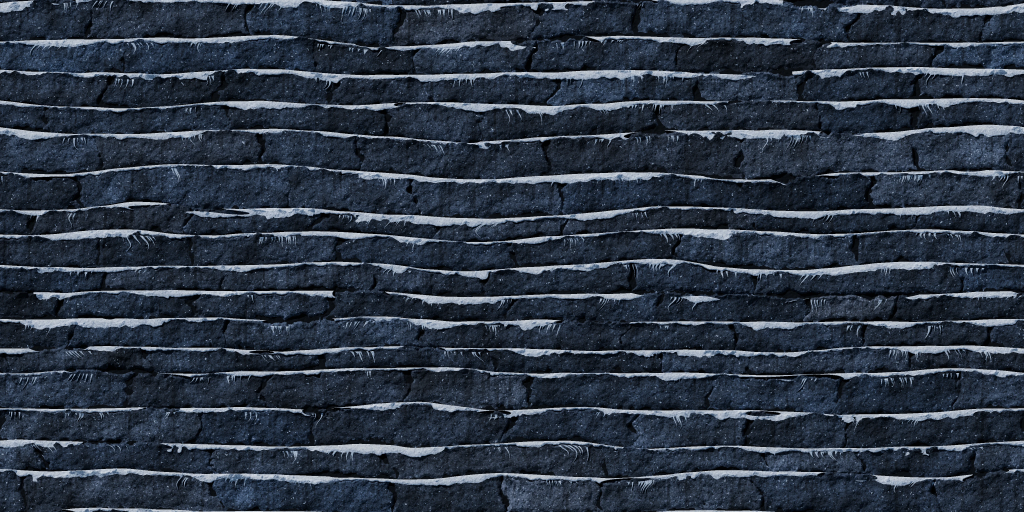
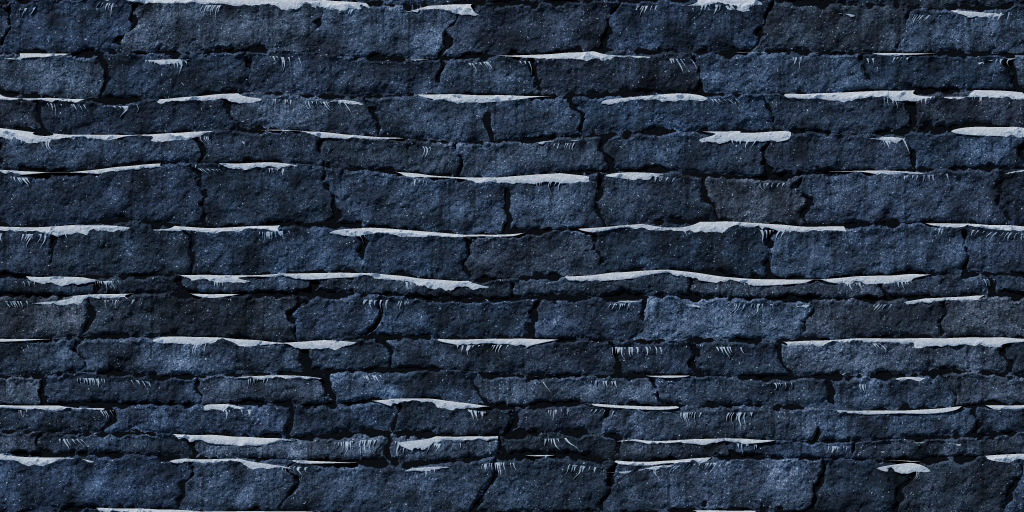
Версия 2026.10.15-51: правки критика r26 — пласты арктики без «обоев», кристаллы на сводах Alien, вулкан светлее

diff --git a/js/terrain_visual.js b/js/terrain_visual.js
@@ -1521,10 +1521,17 @@ function drawSurfaceDetails(T, theme, seed, waterY, tops, ceils, mat) {
       const len = 4 + rng() * 12; c.fillStyle = '#1e1817'; c.beginPath(); c.moveTo(x - 2.8, y); c.lineTo(x + 2.8, y); c.quadraticCurveTo(x + 0.8, y + len * 0.6, x, y + len); c.quadraticCurveTo(x - 0.8, y + len * 0.6, x - 2.8, y); c.fill();
       if (gc && rng() < 0.12) { gc.fillStyle = 'rgba(255,110,20,0.7)'; gc.beginPath(); gc.arc(x, y + len - 1, 1.6, 0, TAU); gc.fill(); c.fillStyle = '#ff9a3a'; c.beginPath(); c.arc(x, y + len - 1, 0.7, 0, TAU); c.fill(); }   /* угольки редкие и мелкие (r23: «гирлянда») */
     } else if (kind === 'crystals' && rng() < 0.035) {
-      const len = 5 + rng() * 10; const col = rng() < 0.5 ? '#5ff4ff' : '#ff6ef6';
-      c.fillStyle = col; c.beginPath(); c.moveTo(x - 2, y); c.lineTo(x + 2, y); c.lineTo(x + 1.5, y + len * 0.7); c.lineTo(x, y + len); c.lineTo(x - 1.5, y + len * 0.7); c.closePath(); c.fill();
-      c.fillStyle = 'rgba(255,255,255,0.6)'; c.fillRect(x - 1, y, 0.8, len * 0.6);
-      if (gc) { gc.fillStyle = col; gc.globalAlpha = 0.6; gc.beginPath(); gc.arc(x, y + len * 0.5, 5, 0, TAU); gc.fill(); gc.globalAlpha = 1; }
+      const len = 5 + rng() * 10, cyan = rng() < 0.5, col = cyan ? '#5ff4ff' : '#ff6ef6';
+      const CN = cyan ? ['crystal_c1', 'crystal_c2'] : ['crystal_m1', 'crystal_m2'], cn = CN[(x * 7 + y) & 1], CR = TexLib.data[cn];
+      if (CR) {   // кристаллы из Blender остриём вниз (как в эталоне свисают со свода) — чёткие при приближении
+        const D = (len + 6) * 1.9; if (surface) { surface.sprite(CR.canvas, cn); anchor(x, y - 1); }
+        cs.save(); cs.translate(x, y + 2); cs.scale((x & 2) ? -1 : 1, -1); cs.drawImage(CR.canvas, -D / 2, -D, D, D); cs.restore();
+        if (surface) anchor(null);
+      } else {
+        c.fillStyle = col; c.beginPath(); c.moveTo(x - 2, y); c.lineTo(x + 2, y); c.lineTo(x + 1.5, y + len * 0.7); c.lineTo(x, y + len); c.lineTo(x - 1.5, y + len * 0.7); c.closePath(); c.fill();
+        c.fillStyle = 'rgba(255,255,255,0.6)'; c.fillRect(x - 1, y, 0.8, len * 0.6);
+      }
+      if (gc) { gc.fillStyle = col; gc.globalAlpha = 0.32; gc.beginPath(); gc.arc(x, y + len * 0.5, 4, 0, TAU); gc.fill(); gc.globalAlpha = 1; }
     }
   }
   // --- Декоративная отделка пещер: кромка ±4 px, сколы углов, гравий и редкая трава/мох ---

diff --git a/js/themes.js b/js/themes.js
@@ -89,7 +89,7 @@ const THEMES = {
       strata: ['#4b3c39', '#5b4944', '#3e3130', '#655149', '#4e3e3a'], band: 26, bandSharp: 0.3,
       rock: ['#6a5244', '#7e6250', '#5a4438', '#8a6c56', '#725a4a'], rockDirt: true, rockBand: 48, backK: 1.5,
       pebbles: ['#6a5a54', '#7a6862', '#5a4a44'], smoothStones: true,
-      outline: '#0d0606', veins: { color: '#ff7a20', w: 0.012, glow: true, hot: true, mask: 0.64, halo: 3 /* v50: тонкие редкие трещины, как в эталоне (были кляксы) */ }, ceiling: 'stalactites', capMats: [1, 9], tex: { rock: 'rock_volcano', cave: 'cave_volcano', cap: 'cap_ash', gain: [2.13, 3.26, 3.73], glowTex: [255, 110, 30], glowMin: 190 },
+      outline: '#0d0606', veins: { color: '#ff7a20', w: 0.012, glow: true, hot: true, mask: 0.64, halo: 3 /* v50: тонкие редкие трещины, как в эталоне (были кляксы) */ }, ceiling: 'stalactites', capMats: [1, 9], tex: { rock: 'rock_volcano', cave: 'cave_volcano', cap: 'cap_ash', gain: [2.45, 3.75, 4.29] /* r26: склон светлее ~15 % */, glowTex: [255, 110, 30], glowMin: 190 },
     },
     scatter: ['obsidian', 'lavarock', 'bones', 'obsidian', 'lavarock'],
     weather: 'embers', birds: false, ambient: '#a47a6c', ambientSound: 'lava', glow: true,

diff --git a/js/art.js b/js/art.js
@@ -262,6 +262,7 @@ const TexLib = {
     for (const d of map.decor || []) for (const n of trees[d[0]] || []) add(n);
     for (const k of theme.scatter || []) for (const n of trees[k] || []) add(n);   // россыпь по поверхности (камни, кристаллы, кости)
     if (theme.scatterRock) for (const n of ['drygrass1', 'drygrass2', 'drygrass3', 'drygrass4']) add(n);
+    if (theme.ground && theme.ground.ceiling === 'crystals') for (const n of ['crystal_c1', 'crystal_c2', 'crystal_m1', 'crystal_m2']) add(n);   // кристаллы на сводах
     if (theme.ground && theme.ground.ceiling === 'roots') for (const n of ['roots1', 'roots2', 'roots3']) add(n);   // корни в пещерах (terrain_visual.js)
     if (theme.liquid && theme.liquid.kind === 'lava') add('lava_surface');   // корка лавы (render.js, drawLiquid)
     if (theme.weather === 'leaves') for (const n of ['leaf1', 'leaf2', 'leaf3', 'leaf4']) add(n);   // падающие листья (particles.js, погода)

diff --git a/index.html b/index.html
@@ -114,7 +114,7 @@
         </div>
       </div>
     </div>
-    <footer class="menu-footer"><span id="game-version">ВЕРСИЯ 2026.10.15-50</span><span>ПЛАНИРУЙ ХОД. МЕНЯЙ ЛАНДШАФТ.</span><span class="footer-status"><i></i> ГОТОВ К БОЮ</span></footer>
+    <footer class="menu-footer"><span id="game-version">ВЕРСИЯ 2026.10.15-51</span><span>ПЛАНИРУЙ ХОД. МЕНЯЙ ЛАНДШАФТ.</span><span class="footer-status"><i></i> ГОТОВ К БОЮ</span></footer>
   </section>
 
   <!-- Онлайн -->

diff --git a/dev/blender/make_masonry.py b/dev/blender/make_masonry.py
@@ -53,11 +53,13 @@ STYLES = {
     # (светлый верх, тень под уступом — от настоящего рельефа), крупные пятна тона ±10 L
     # r24 → v44: пласты как в эталоне (≈30 ед.: 24–42), трещины чаще (80–200), карниз сильнее (светлый верх, тень под
     # уступом), снег на кромке почти сплошной и толще, сосулек и инея больше
-    'strata': dict(name='rock_arctic', seed=61, T=1024, TY=512, hr=(24, 42), wr=(80, 200), joint=1.8, bev=3.0, recess=2.6, tilt=0.8,
-                   slant=(5, 20), ledge=3.4, mottk=0.16, frostT=2.35,
-                   stone=[(56, 61, 72), (50, 55, 66), (62, 67, 78), (45, 50, 60), (54, 59, 70)],
+    # r26 → v51: «обои» — сплошная белая нитка снега на каждом ряду; теперь снег пятнами (~⅓ уступов), но толще, ряды
+    # разной высоты (22–56), швы между глыбами глубже, камень светлее ~15 % (как в эталоне — голубоватые грани)
+    'strata': dict(name='rock_arctic', seed=61, T=1024, TY=512, hr=(22, 56), wr=(70, 230), joint=2.6, bev=3.2, recess=2.8, tilt=0.8,
+                   slant=(5, 20), ledge=3.4, mottk=0.2, frostT=2.35,
+                   stone=[(64, 70, 83), (58, 63, 76), (71, 77, 90), (52, 58, 69), (62, 68, 81)],
                    mortar=(13, 15, 20), lichen=0.0, moss=0.0, wob=1.8, rough=1.6, warp=(3.2, 3.0),
-                   snow=dict(th=(2.2, 7.5), col=(232, 238, 250), gaps=-1.3, icicles=1.7),
+                   snow=dict(th=(3.5, 9.5), col=(232, 238, 250), gaps=0.35, icicles=1.7),
                    light=dict(col=(0.82, 0.88, 1.0), elev=32, energy=4.2)),
     # пиратский маяк: побелённый камень, мелкие блоки, светлый раствор
     'light': dict(name='stone_light', seed=51, T=512, hr=(10, 13), wr=(17, 32), joint=1.8, bev=1.5, recess=1.2,

diff --git a/CLAUDE.md b/CLAUDE.md
@@ -7,7 +7,7 @@ D:\Територивар1 и пользовательский Territory-War100 
 Не выполнять старые указания reset/clean/push/автоматического обновления (локальные коммиты можно).
 Запускать «Играть.cmd» или «Играть онлайн.cmd» из D:\Територивар.
 Полная переписка: dev/imported-chat/claude-code. Текущие цели: dev/NEXT_STEPS.md.
-Актуальная версия 2026.10.15-50, передача: dev/HANDOFF-2026-10-04.md и разделы «Версия 33–45» в dev/NEXT_STEPS.md.
+Актуальная версия 2026.10.15-51, передача: dev/HANDOFF-2026-10-04.md и разделы «Версия 33–45» в dev/NEXT_STEPS.md.
 Версия 45 (14.10): кадр наведения соперника — Camera.shotFrame идёт за дальней точкой (точка у края кадра с отступом); удары, попадания и снаряды центруются и у края карты (clampTo, reach). Ядерка — game.nuke (rd 430, pierce 0.5, урон 280). Звуки Sonniss GDC 2026 скачаны в D:\Sonniss-GDC2026\zips (лицензия без авторства; не выкладывать сами файлы). Версия 46: звук Sonniss (amb_*, boom5–9, nukeboom, ice0–1; dev/tools/sonniss_make.py; AMB_REC в audio.js), мотор ракеты ROCKET_MOTOR (entities.js, и в simulateShot), обломки PART_REST (particles.js), цветы flower1–4 и листья leaf1–4 (make_decor.py; цветы — в слое растений terrain_visual.js). Версия 48: оружие и взрывы из прошлых наборов Sonniss (выборочно по HTTP Range — scratchpad zip_fetch.py, копия D:\Sonniss-GDC2026\zip_fetch.py; записи в D:\Sonniss-GDC2026\guns; нарезка dev/tools/guns_make.py). Версия 49: makeup-усиление в audio.js init (2.5), лазер — ошибка по ветру (entities.js orbital), pickFrame — кадр по середине «самолёт…земля» (zFit), clampTo — свободный обзор до края (edge/scopeFocus/binoc), прицел соперника прижат к краю экрана со стрелкой. Лимиты: критик — лёгкий (8 уменьшенных снимков), тяжёлое — фоновыми процессами.
 Графика (просьба 09.10): всё векторное и лоскутное — в фотореалистичный Blender (кладка dev/blender/make_masonry.py, ели snow_spruce в make_textures.py, плющ make_ivy.py, декор make_decor.py); доски корабля dev/tools/make_hull_planks.py, чистка снега в текстуре dev/tools/despeckle_snow.py; критик r22 — dev/reviews/r22.md.
 Чёткость (просьба 10.10): текстуры чёткие при ЛЮБОМ увеличении — у каждого материала родная ×4 в assets/tex/native (Blender: dev/blender/hf_render.py блоками, make_masonry.py, make_metal.py; остальное — dev/native_batch.py через dev/tools/native_queue.py), проверять снимками на 1,3×/2×/max и мерой R = ВЧ(1:1)/ВЧ(½) родной (≥ 0.85; у рендеров Blender — узкий фильтр пикселя, без шумоподавления, см. dev/reviews/r24.md). Длинные рендеры возобновляемые (HF_RESUME=1, native_queue.py --clear-stale): у пользователя бывают отключения света.

diff --git a/dev/reviews/r26.md b/dev/reviews/r26.md
@@ -1,0 +1,20 @@
+# Критик r26 (15.10.2026, лёгкий: 8 снимков 960×600 + 8 эталонов, модель Sonnet)
+
+| Карта | Оценка | Главная проблема |
+|---|---|---|
+| valley | 5.5 | плоский плиточный грунт «земля с камешками», башня резко обрезана; нет тёплого контрового света, нависающей травы, мха на мосту |
+| canyon | 6.5 | порода однотонная оранжево-бурая, тёмная обводка 1 px у пещер; в эталоне пласты разного цвета и полки |
+| arctic | 5 | горизонтальные полосы с шагом ~25 px с белой ниткой — «обои»; в эталоне крупные блоки, толстые снежные шапки, лёд |
+| volcano | 6 | свечение лавы — пятна-штампы, а не трещины; весь склон плоский и тёмный |
+| alien | 6 | обрыв — тёмная пятнистая заливка с кристаллами, нет силуэта, нависаний, мха |
+| pirate | 6.5 | доски хорошие, но трюм — ровная сетка без света; стык с землёй — резкая горизонталь |
+| castles | 6.5 | стена — прямоугольник с резким вертикальным срезом справа; камни в грунте одинаковые и редкие |
+| city | 7 | фасады близки к эталону; плоская кровля, неон «наклеен» |
+
+Правки (3 худших):
+- arctic: высота пластов 60–120 px вместо ~25, вертикальные швы и сдвиги, блоки 150–300 px; толстые неровные шапки снега
+  6–12 px на 30–40 % уступов с тенью снизу; порода светлее ~15 %, сине-серые вариации, лёд под нависаниями.
+- valley: валуны 40–80 px со светлым верхом и тёмной щелью; кромка травы 8–14 px с нависанием; мох/плющ на башне и мосту;
+  тёплый контровой свет +20 % на верх/правые грани; рваный край вместо прямого среза башни.
+- volcano: свечение — тонкие линии 1–2 px вдоль трещин, пятен на 60 % меньше; склон светлее ~25 %, плиты с светлой
+  верхней кромкой и тенью; тлеющая кромка вдоль верхнего склона.

diff --git a/README.md b/README.md
@@ -12,6 +12,10 @@
 
 Лаунчеры сразу открывают приложение во весь экран; F11 — выход/возврат. В обычной браузерной ссылке полный экран включается с первого действия пользователя.
 
+## Обновление 51
+
+По отзыву критика r26 (dev/reviews/r26.md): арктика — крупные глыбы с глубокими швами, ряды разной высоты, снег пятнами на части уступов (раньше сплошная белая нитка на каждом ряду, «обои»), порода светлее; Alien — со сводов свисают объёмные кристаллы из Blender вместо нарисованных треугольников; вулкан — склон светлее, ближе к эталону.
+
 ## Обновление 50
 
 Вулкан: озеро лавы — настоящая корка из тёмных плит со светящимися трещинами расплава, медленно дрейфует (раньше — жёлтая заливка с эллипсами); раскалённые прожилки в породе тоньше и реже, без оранжевых клякс. Долина и замки: убраны светлые нарисованные штрихи поверх травы.

diff --git a/dev/CORE_GOALS.md b/dev/CORE_GOALS.md
@@ -9,6 +9,8 @@ dev/MASTER_PLAN.md (все просьбы пользователя), а сохр
   dev/reference/*.png. Критик — субагент, но лёгкий: 8 уменьшенных снимков + эталоны за один заход (лимиты пользователя).
 - Всё векторное и лоскутное → **фотореалистичные ассеты из Blender** (dev/blender/make_decor.py и др.).
   Сделано 15.10 (v50): дуги в траве убраны, озеро лавы — текстура корки (dev/tools/make_lava.py), прожилки тоньше.
+  v51 (критик r26, dev/reviews/r26.md: valley 5.5, canyon 6.5, arctic 5, volcano 6, alien 6, pirate 6.5, castles 6.5,
+  city 7): арктика — новые пласты (make_masonry strata), кристаллы на сводах Alien, вулкан светлее.
   Осталось: звёздчатые светящиеся сердцевины в rock_volcano при 2,5×; лавовые шары и кости вулкана;
   мох и плющ на кладке, ряды разной высоты; фасад города ≥2048 px из Blender, эстакада; металл Alien без повтора и
   светильники, гриб-дерево Alien; тёмная порода rock_alien (пятна).
